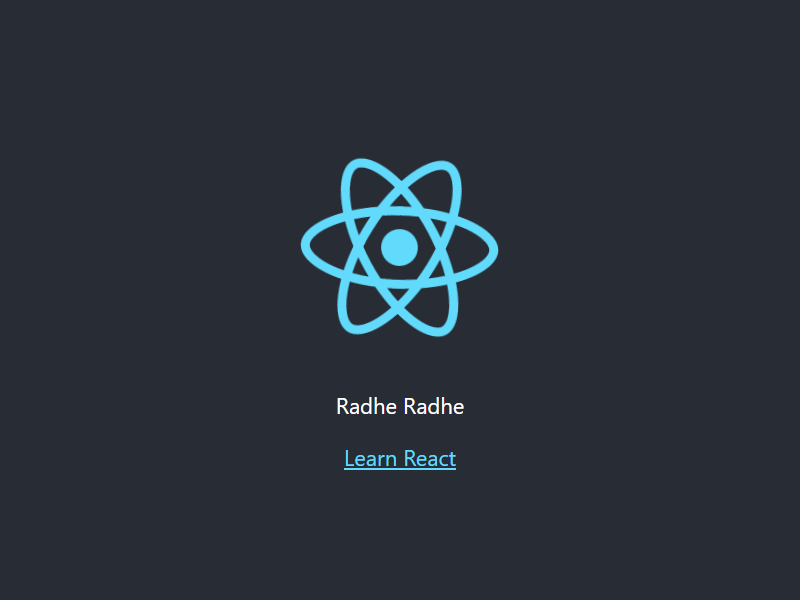
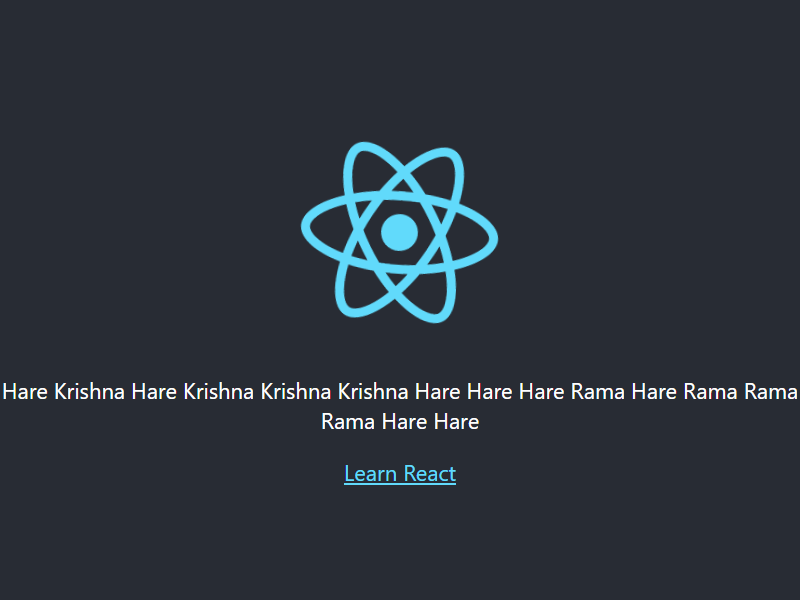
SS will change on chaging UI

Changed region(s): [[0.375, 0.24, 0.625, 0.57], [0.0, 0.63, 1.0, 0.72], [0.4062, 0.75, 0.5938, 0.81]]

diff --git a/Web Development/snaptodate/src/App.js b/Web Development/snaptodate/src/App.js
@@ -13,7 +13,8 @@ function App() {
       <header className="App-header">
         <img src={logo} className="App-logo" alt="logo" />
         <p>
-          Radhe Radhe
+          Hare Krishna Hare Krishna Krishna Krishna Hare Hare
+            Hare Rama Hare Rama Rama Rama Hare Hare
         </p>
         <a
           className="App-link"
